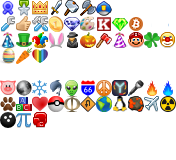
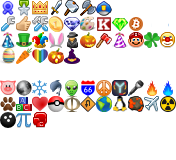
Add Halloween 2015 flair

Changed region(s): [[0.2557, 0.2812, 0.4545, 0.4062]]

diff --git a/tpflair/flair.py b/tpflair/flair.py
@@ -29,6 +29,8 @@ FLAIR_DATA = [
     ("Easter2", "Racing for Eggs", "0px -48px"),
     ("Easter3", "Racing For Carrots", "-16px -48px"),
     ("Lgbt", "All balls are created equal!", "-32px -48px"),
+    ("Halloween2", "Easy as Pumpkin Pie", "-48px -48px"),
+    ("Witch", "Lighter Than a Duck", "-64px -48px"),
     ("Bacon", "Bacon (6&#176;)", "0px -80px"),
     ("Moon", "Moon (11&#176;)", "-16px -80px"),
     ("Penguin", "Penguin (17&#176;)", "-112px -96px"),
